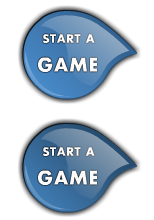
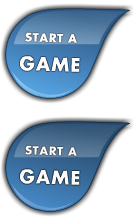
add new start button, add new search tiles, fix right hud tiles

diff --git a/web/js/zzScript.js b/web/js/zzScript.js
@@ -18,7 +18,7 @@ define('../../config/config',[], function() {
 
 define('../../config/version',[],function() {
   return {
-    version: 2
+    version: null
   };
 });
 
@@ -742,7 +742,7 @@ define('rightHudController',["../../config/config", "../../helper/sound"], funct
             if (typeof message[gameId].PLRS[gameSeatID].GSS !== 'undefined') {
               if (message[gameId].PLRS[gameSeatID].GSS !== 1 && zzGlobals.currentUserDBId === message[gameId].PLRS[gameSeatID].UI) {
                 $('#accept_decline_' + gameId).remove();
-                $("right_hud_" + gameId).click({
+                $("#right_hud_" + gameId).click({
                   gameDetails: message[gameId],
                   id: gameId
                 }, function(e) {
@@ -772,7 +772,7 @@ define('rightHudController',["../../config/config", "../../helper/sound"], funct
     return true;
   };
   window.createGameDetailsPopup = function(gameDetails, gameId) {
-    var betPlacedNoClass, gameSeatID, gdDiv, gdPlaydivClassName, gdUserImgclassName, i, index, playerName, plrs, remindUsersData, trClass, _ref, _score;
+    var betPlacedNoClass, gdDiv, gdPlaydivClassName, gdUserImgclassName, i, index, playerName, plrs, remindUsersData, trClass, _ref, _score;
     jQuery('.gdWrapper').remove();
     gdDiv = $("<div class=\"gdWrapper animated fadeInRight\">\n	<div class=\"gdScoreCardDiv\">\n		<div class=\"gdAllRoundDiv\" id=\"gdAllRoundDivId\"></div>\n\n		<div class=\"gdScoreInfoDiv\">\n			<table class=\"gdScoreCardTbl\"></table>\n		</div>\n	</div>\n	<div class=\"gdUsersImgdiv\"></div>\n	<div class=\"gdReminddiv\"></div>\n	<div class=\"gdReturndiv\"></div>\n</div>");
     $('.gdReminddiv', gdDiv).click(function() {
@@ -804,8 +804,7 @@ define('rightHudController',["../../config/config", "../../helper/sound"], funct
     i = 0;
     remindUsersData = {};
     for (index in gameDetails.PLSC) {
-      gameSeatID = gameDetails.PLSC[index];
-      plrs = gameDetails.PLRS[gameSeatID];
+      plrs = gameDetails.PLRS[gameDetails.PLSC[index]];
       remindUsersData[plrs.PFB] = {
         GSS: plrs.GSS,
         CRS: plrs.CRS
@@ -2633,12 +2632,15 @@ define('../../popup/showInviteStatus',[], function() {
     return jDocument.trigger(zzEvents.SEND_UPC_MESSAGE, [UPC.SEND_ROOMMODULE_MESSAGE, zzGlobals.roomVars[zzGlobals.roomCodes.ROOM_ID], "RQ", "C|CI"]);
   };
   showInviteStatus = function() {
-    var gameObjPLRS, invitedImgs, popupDivBase, rejected, seatid, toShow, totalResponse, totalUser, userInfo, usersInfoObject;
+    var gameObjPLRS, invitedImgs, popupDivBase, seatid, totalResponse, usersInfoObject;
+    if (parseInt(zzGlobals.dataObjVars.AP.GCB) !== parseInt(zzGlobals.currentUserDBId)) {
+      return;
+    }
     usersInfoObject = zzGlobals.dataObjVars.AP;
-    totalUser = usersInfoObject.TP;
-    toShow = usersInfoObject.GCB;
     gameObjPLRS = usersInfoObject.PLRS;
-    popupDivBase = $("<div class=\"status_show_popup zalerio_popup\" id=\"invitestatus\" style=\"display:block\" >\n		<div id=\"score_friendpopup\" class=\"outer_base\">\n			<a class=\"positionAbsolute\" id=\"close\"></a>\n			<div class=\"invite_status_base\" style=\"padding-top:32px\">\n				<div class=\"topUserInfo\"></div>\n				<div class=\"statusWrapper\">\n					<div class=\"acceptBlock\"><span>Accepted</span><div class=\"imgWrapper\"></div></div>\n					<div class=\"declineBlock\"><span>Declined</span><div class=\"imgWrapper\"></div></div>\n					<div class=\"inviteBlock\"><span>Not responded yet ...</span><div class=\"imgWrapper\"></div></div>\n				</div>\n				<div class=\"buttonWrapper\">\n					<div class=\"leftButtonWrapper\">\n						<div class=\"leftButton\">Close Invitations</div>\n						<div class=\"textLeftButton\">Game will kick-off with all friends that have accepted your game invitation so far</div>\n					</div>\n					<div class=\"rightButtonWrapper\">\n						<div class=\"rightButton\">Send Reminder</div>\n						<div class=\"textRightButton\">Friends who did not respond yet will get a gentle reminder to join your game...</div>\n					</div>\n				</div>\n			</div>\n		</div>\n</div>");
+    totalResponse = 0;
+    invitedImgs = 0;
+    popupDivBase = $("<div class=\"status_show_popup zalerio_popup\" id=\"invitestatus\" style=\"display:block\" >\n	<div id=\"score_friendpopup\" class=\"outer_base\">\n		<a class=\"positionAbsolute\" id=\"close\"></a>\n		<div class=\"invite_status_base\" style=\"padding-top:32px\">\n			<div class=\"topUserInfo\"></div>\n			<div class=\"statusWrapper\">\n				<div class=\"acceptBlock\"><span>Accepted</span><div class=\"imgWrapper\"></div></div>\n				<div class=\"declineBlock\"><span>Declined</span><div class=\"imgWrapper\"></div></div>\n				<div class=\"inviteBlock\"><span>Not responded yet ...</span><div class=\"imgWrapper\"></div></div>\n			</div>\n			<div class=\"buttonWrapper\">\n				<div class=\"leftButtonWrapper\">\n					<div class=\"leftButton\">Close Invitations</div>\n					<div class=\"textLeftButton\">Game will kick-off with all friends that have accepted your game invitation so far</div>\n				</div>\n				<div class=\"rightButtonWrapper\">\n					<div class=\"rightButton\">Send Reminder</div>\n					<div class=\"textRightButton\">Friends who did not respond yet will get a gentle reminder to join your game...</div>\n				</div>\n			</div>\n		</div>\n	</div>\n</div>");
     $('.positionAbsolute', popupDivBase).click(function() {
       jQuery('.status_show_popup').remove();
       return false;
@@ -2646,29 +2648,20 @@ define('../../popup/showInviteStatus',[], function() {
     $('.leftButton', popupDivBase).click(function() {
       return closeInvits();
     });
-    rejected = [];
-    totalResponse = 0;
-    invitedImgs = 0;
     for (seatid in gameObjPLRS) {
-      userInfo = gameObjPLRS[seatid];
-      if (parseInt(userInfo.GSS) === 1) {
-        totalResponse++;
-        $('.acceptBlock .imgWrapper', popupDivBase).append("<img src=\"https://graph.facebook.com/" + userInfo.PFB + "/picture\" />");
-      } else if (parseInt(userInfo.GSS) === 2) {
-        totalResponse++;
-        $('.declineBlock .imgWrapper', popupDivBase).append("<img src=\"https://graph.facebook.com/" + userInfo.PFB + "/picture\" />");
-      } else if (parseInt(userInfo.GSS) === 3) {
+      totalResponse++;
+      if (parseInt(gameObjPLRS[seatid].GSS) === 1) {
+        $('.acceptBlock .imgWrapper', popupDivBase).append("<img src=\"https://graph.facebook.com/" + gameObjPLRS[seatid].PFB + "/picture\" />");
+      } else if (parseInt(gameObjPLRS[seatid].GSS) === 2) {
+        $('.declineBlock .imgWrapper', popupDivBase).append("<img src=\"https://graph.facebook.com/" + gameObjPLRS[seatid].PFB + "/picture\" />");
+      } else if (parseInt(gameObjPLRS[seatid].GSS) === 3) {
+        totalResponse--;
         invitedImgs++;
-        $('.inviteBlock .imgWrapper', popupDivBase).append("<img src=\"https://graph.facebook.com/" + userInfo.PFB + "/picture\" />");
-      } else {
-        rejected.push(userInfo.GSS);
+        $('.inviteBlock .imgWrapper', popupDivBase).append("<img src=\"https://graph.facebook.com/" + gameObjPLRS[seatid].PFB + "/picture\" />");
       }
     }
     $('.imgWrapper:not(:has(img))', popupDivBase).parent().remove();
-    if (parseInt(toShow) !== parseInt(zzGlobals.currentUserDBId)) {
-      return;
-    }
-    if (!(totalResponse > totalUser / 2 && invitedImgs !== 0)) {
+    if (!(totalResponse > usersInfoObject.TP / 2 && invitedImgs !== 0)) {
       return;
     }
     if (zzGlobals.inviteStatus !== null && typeof zzGlobals.inviteStatus !== "undefined") {

diff --git a/web/js/popup/showInviteStatus.js b/web/js/popup/showInviteStatus.js
@@ -6,12 +6,15 @@ define([], function() {
     return jDocument.trigger(zzEvents.SEND_UPC_MESSAGE, [UPC.SEND_ROOMMODULE_MESSAGE, zzGlobals.roomVars[zzGlobals.roomCodes.ROOM_ID], "RQ", "C|CI"]);
   };
   showInviteStatus = function() {
-    var gameObjPLRS, invitedImgs, popupDivBase, rejected, seatid, toShow, totalResponse, totalUser, userInfo, usersInfoObject;
+    var gameObjPLRS, invitedImgs, popupDivBase, seatid, totalResponse, usersInfoObject;
+    if (parseInt(zzGlobals.dataObjVars.AP.GCB) !== parseInt(zzGlobals.currentUserDBId)) {
+      return;
+    }
     usersInfoObject = zzGlobals.dataObjVars.AP;
-    totalUser = usersInfoObject.TP;
-    toShow = usersInfoObject.GCB;
     gameObjPLRS = usersInfoObject.PLRS;
-    popupDivBase = $("<div class=\"status_show_popup zalerio_popup\" id=\"invitestatus\" style=\"display:block\" >\n		<div id=\"score_friendpopup\" class=\"outer_base\">\n			<a class=\"positionAbsolute\" id=\"close\"></a>\n			<div class=\"invite_status_base\" style=\"padding-top:32px\">\n				<div class=\"topUserInfo\"></div>\n				<div class=\"statusWrapper\">\n					<div class=\"acceptBlock\"><span>Accepted</span><div class=\"imgWrapper\"></div></div>\n					<div class=\"declineBlock\"><span>Declined</span><div class=\"imgWrapper\"></div></div>\n					<div class=\"inviteBlock\"><span>Not responded yet ...</span><div class=\"imgWrapper\"></div></div>\n				</div>\n				<div class=\"buttonWrapper\">\n					<div class=\"leftButtonWrapper\">\n						<div class=\"leftButton\">Close Invitations</div>\n						<div class=\"textLeftButton\">Game will kick-off with all friends that have accepted your game invitation so far</div>\n					</div>\n					<div class=\"rightButtonWrapper\">\n						<div class=\"rightButton\">Send Reminder</div>\n						<div class=\"textRightButton\">Friends who did not respond yet will get a gentle reminder to join your game...</div>\n					</div>\n				</div>\n			</div>\n		</div>\n</div>");
+    totalResponse = 0;
+    invitedImgs = 0;
+    popupDivBase = $("<div class=\"status_show_popup zalerio_popup\" id=\"invitestatus\" style=\"display:block\" >\n	<div id=\"score_friendpopup\" class=\"outer_base\">\n		<a class=\"positionAbsolute\" id=\"close\"></a>\n		<div class=\"invite_status_base\" style=\"padding-top:32px\">\n			<div class=\"topUserInfo\"></div>\n			<div class=\"statusWrapper\">\n				<div class=\"acceptBlock\"><span>Accepted</span><div class=\"imgWrapper\"></div></div>\n				<div class=\"declineBlock\"><span>Declined</span><div class=\"imgWrapper\"></div></div>\n				<div class=\"inviteBlock\"><span>Not responded yet ...</span><div class=\"imgWrapper\"></div></div>\n			</div>\n			<div class=\"buttonWrapper\">\n				<div class=\"leftButtonWrapper\">\n					<div class=\"leftButton\">Close Invitations</div>\n					<div class=\"textLeftButton\">Game will kick-off with all friends that have accepted your game invitation so far</div>\n				</div>\n				<div class=\"rightButtonWrapper\">\n					<div class=\"rightButton\">Send Reminder</div>\n					<div class=\"textRightButton\">Friends who did not respond yet will get a gentle reminder to join your game...</div>\n				</div>\n			</div>\n		</div>\n	</div>\n</div>");
     $('.positionAbsolute', popupDivBase).click(function() {
       jQuery('.status_show_popup').remove();
       return false;
@@ -19,29 +22,20 @@ define([], function() {
     $('.leftButton', popupDivBase).click(function() {
       return closeInvits();
     });
-    rejected = [];
-    totalResponse = 0;
-    invitedImgs = 0;
     for (seatid in gameObjPLRS) {
-      userInfo = gameObjPLRS[seatid];
-      if (parseInt(userInfo.GSS) === 1) {
-        totalResponse++;
-        $('.acceptBlock .imgWrapper', popupDivBase).append("<img src=\"https://graph.facebook.com/" + userInfo.PFB + "/picture\" />");
-      } else if (parseInt(userInfo.GSS) === 2) {
-        totalResponse++;
-        $('.declineBlock .imgWrapper', popupDivBase).append("<img src=\"https://graph.facebook.com/" + userInfo.PFB + "/picture\" />");
-      } else if (parseInt(userInfo.GSS) === 3) {
+      totalResponse++;
+      if (parseInt(gameObjPLRS[seatid].GSS) === 1) {
+        $('.acceptBlock .imgWrapper', popupDivBase).append("<img src=\"https://graph.facebook.com/" + gameObjPLRS[seatid].PFB + "/picture\" />");
+      } else if (parseInt(gameObjPLRS[seatid].GSS) === 2) {
+        $('.declineBlock .imgWrapper', popupDivBase).append("<img src=\"https://graph.facebook.com/" + gameObjPLRS[seatid].PFB + "/picture\" />");
+      } else if (parseInt(gameObjPLRS[seatid].GSS) === 3) {
+        totalResponse--;
         invitedImgs++;
-        $('.inviteBlock .imgWrapper', popupDivBase).append("<img src=\"https://graph.facebook.com/" + userInfo.PFB + "/picture\" />");
-      } else {
-        rejected.push(userInfo.GSS);
+        $('.inviteBlock .imgWrapper', popupDivBase).append("<img src=\"https://graph.facebook.com/" + gameObjPLRS[seatid].PFB + "/picture\" />");
       }
     }
     $('.imgWrapper:not(:has(img))', popupDivBase).parent().remove();
-    if (parseInt(toShow) !== parseInt(zzGlobals.currentUserDBId)) {
-      return;
-    }
-    if (!(totalResponse > totalUser / 2 && invitedImgs !== 0)) {
+    if (!(totalResponse > usersInfoObject.TP / 2 && invitedImgs !== 0)) {
       return;
     }
     if (zzGlobals.inviteStatus !== null && typeof zzGlobals.inviteStatus !== "undefined") {

diff --git a/web/js/features/game/rightHudController.js b/web/js/features/game/rightHudController.js
@@ -83,7 +83,7 @@ define(["../../config/config", "../../helper/sound"], function(config, sound) {
             if (typeof message[gameId].PLRS[gameSeatID].GSS !== 'undefined') {
               if (message[gameId].PLRS[gameSeatID].GSS !== 1 && zzGlobals.currentUserDBId === message[gameId].PLRS[gameSeatID].UI) {
                 $('#accept_decline_' + gameId).remove();
-                $("right_hud_" + gameId).click({
+                $("#right_hud_" + gameId).click({
                   gameDetails: message[gameId],
                   id: gameId
                 }, function(e) {
@@ -113,7 +113,7 @@ define(["../../config/config", "../../helper/sound"], function(config, sound) {
     return true;
   };
   window.createGameDetailsPopup = function(gameDetails, gameId) {
-    var betPlacedNoClass, gameSeatID, gdDiv, gdPlaydivClassName, gdUserImgclassName, i, index, playerName, plrs, remindUsersData, trClass, _ref, _score;
+    var betPlacedNoClass, gdDiv, gdPlaydivClassName, gdUserImgclassName, i, index, playerName, plrs, remindUsersData, trClass, _ref, _score;
     jQuery('.gdWrapper').remove();
     gdDiv = $("<div class=\"gdWrapper animated fadeInRight\">\n	<div class=\"gdScoreCardDiv\">\n		<div class=\"gdAllRoundDiv\" id=\"gdAllRoundDivId\"></div>\n\n		<div class=\"gdScoreInfoDiv\">\n			<table class=\"gdScoreCardTbl\"></table>\n		</div>\n	</div>\n	<div class=\"gdUsersImgdiv\"></div>\n	<div class=\"gdReminddiv\"></div>\n	<div class=\"gdReturndiv\"></div>\n</div>");
     $('.gdReminddiv', gdDiv).click(function() {
@@ -145,8 +145,7 @@ define(["../../config/config", "../../helper/sound"], function(config, sound) {
     i = 0;
     remindUsersData = {};
     for (index in gameDetails.PLSC) {
-      gameSeatID = gameDetails.PLSC[index];
-      plrs = gameDetails.PLRS[gameSeatID];
+      plrs = gameDetails.PLRS[gameDetails.PLSC[index]];
       remindUsersData[plrs.PFB] = {
         GSS: plrs.GSS,
         CRS: plrs.CRS

diff --git a/web/css/zalerioStyle.css b/web/css/zalerioStyle.css
@@ -39,8 +39,8 @@ body {
 }
 .startGame {
     display: block;
-    margin-left: 4px;
-    margin-top: 0px;
+    margin-left: 32PX;
+    margin-top: -3px;    
 }
 .gameLogo{
 	background: url("../images/zalerio_1.2/4.ingame_ui/zalerio_logo.png") left -3px no-repeat transparent;
@@ -310,7 +310,7 @@ body {
 }
 
 .leftHUD {
-    background: url("../images/zalerio_1.2/4.ingame_ui/left_pannelbase.png") no-repeat center 65px transparent;
+    background: url("../images/zalerio_1.2/4.ingame_ui/left_pannelbase.png") no-repeat center 43px transparent;
     width: 143px;
 	height: 485px;
 	margin-right: 1px;

diff --git a/web/protected/views/gameinst/play.php b/web/protected/views/gameinst/play.php
@@ -146,7 +146,7 @@ if (isset($startGame) || isset($game)) {
         <div class="clear"></div>
         <div class="bottomHUDpanel" id="bottomHUD">
             <div class="resignPopup">
-                <a href="" id="resignmeClose" onclick="jQuery('.resignPopup').hide() jQuery('.overlay').remove(); return false;"></a>
+                <a id="resignmeClose" onclick="jQuery('.resignPopup').hide(); jQuery('.overlay').remove(); return false;"></a>
                 <span id="resignme"></span>
             </div>
             <div class="companySignature">
